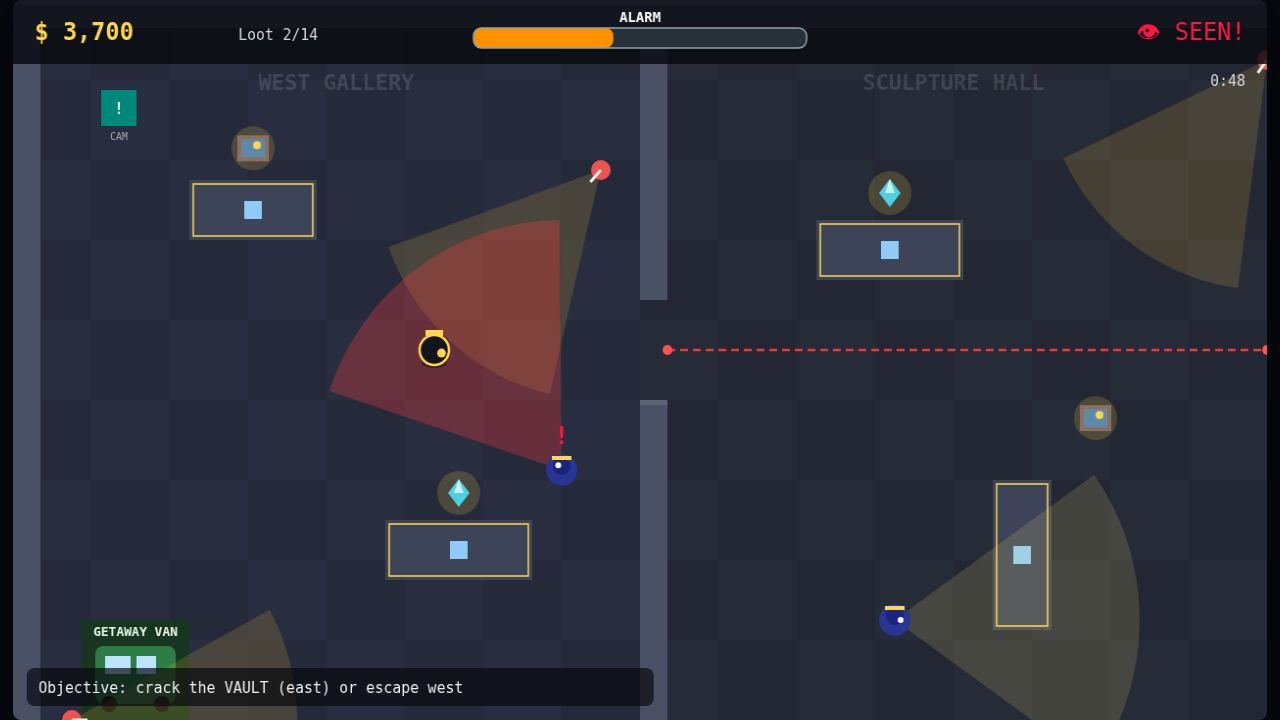
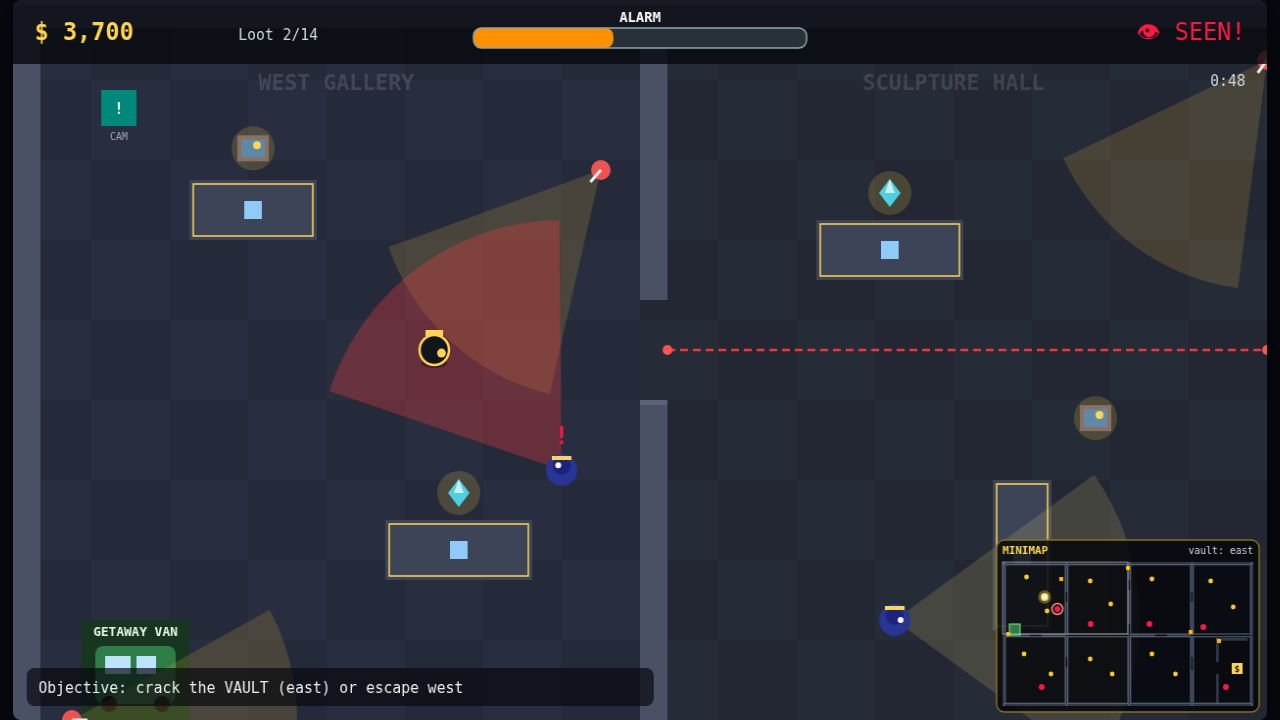
Add live minimap HUD; retake screenshots

Changed region(s): [[0.75, 0.7333, 1.0, 1.0]]

diff --git a/game/src/main.js b/game/src/main.js
@@ -1,5 +1,5 @@
 // Night Vault - main game logic: stealth, vision cones, alarm, vault crack, escape.
-import { buildLevel, ROOM_LABELS } from "./level.js";
+import { buildLevel, ROOM_LABELS, ROOM_RECTS, WORLD } from "./level.js";
 import { Sfx } from "./audio.js";
 const cv=document.getElementById("game"), ctx=cv.getContext("2d");
 const VW=1280, VH=720;
@@ -213,6 +213,56 @@ function drawWorld(){
 }
 function roundRect(x,y,w,h,r){ ctx.beginPath(); ctx.roundRect(x,y,w,h,r); }
 function prompt(t){ ctx.fillStyle="rgba(0,0,0,0.75)"; const w=ctx.measureText(t).width+36; roundRect(VW/2-260,VH-118,520,44,10); ctx.fill(); ctx.fillStyle="#ffd54f"; ctx.font="bold 19px monospace"; ctx.textAlign="center"; ctx.fillText(t,VW/2,VH-89); }
+// ---------- minimap (live HUD overview of the whole museum) ----------
+// Rendered in screen space in the bottom-right corner at a fixed scale:
+// room outlines, un-looted loot (gold), guards (red), the vault, the getaway
+// van, and the thief (bright pulsing dot). Reads only live game state, so it
+// updates every frame and also shows in the deterministic ?shot= scenes.
+const MM_W=256, MM_H=144, MM_SCALE=MM_W/WORLD.w; // 2560x1440 -> 256x144
+function drawMinimap(){
+ const mx=VW-MM_W-14, my=VH-MM_H-14;
+ const px=x=>mx+x*MM_SCALE, py=y=>my+y*MM_SCALE;
+ // panel backing + border (gold while the vault is still shut, green once cracked)
+ ctx.fillStyle="rgba(5,7,12,0.86)"; roundRect(mx-6,my-22,MM_W+12,MM_H+28,8); ctx.fill();
+ ctx.strokeStyle=L.vault.cracked?"#2e7d46":"#8a6d1f"; ctx.lineWidth=1.5; roundRect(mx-6,my-22,MM_W+12,MM_H+28,8); ctx.stroke();
+ ctx.fillStyle="#ffd54f"; ctx.font="bold 11px monospace"; ctx.textAlign="left";
+ ctx.fillText("MINIMAP",mx,my-8);
+ ctx.fillStyle="#cfd8dc"; ctx.font="10px monospace"; ctx.textAlign="right";
+ ctx.fillText(L.vault.cracked?"VAULT OPEN":"vault: east",mx+MM_W,my-8);
+ // room outlines
+ ctx.strokeStyle="rgba(160,180,210,0.55)"; ctx.lineWidth=1;
+ for(const r of ROOM_RECTS) ctx.strokeRect(px(r.x),py(r.y),r.w*MM_SCALE,r.h*MM_SCALE);
+ // solid walls as faint blocks so corridors/door gaps read at a glance
+ ctx.fillStyle="rgba(120,135,165,0.35)";
+ for(const w of L.walls){ if(w.case) continue; ctx.fillRect(px(w.x),py(w.y),Math.max(1,w.w*MM_SCALE),Math.max(1,w.h*MM_SCALE)); }
+ // getaway van / exit (green block + label)
+ const ex=L.exit; ctx.fillStyle="#2e7d46"; ctx.fillRect(px(ex.x),py(ex.y),ex.w*MM_SCALE,ex.h*MM_SCALE);
+ ctx.strokeStyle="#7ee787"; ctx.lineWidth=1; ctx.strokeRect(px(ex.x),py(ex.y),ex.w*MM_SCALE,ex.h*MM_SCALE);
+ // vault (gold square with a dark $ once cracked it flashes green/gold)
+ const v=L.vault, blink=L.vault.cracked&&(Math.floor(elapsed*2)%2===0);
+ ctx.fillStyle=blink?"#7ee787":"#ffd54f"; ctx.fillRect(px(v.x),py(v.y),v.w*MM_SCALE,v.h*MM_SCALE);
+ ctx.fillStyle="#11151c"; ctx.font="bold 9px monospace"; ctx.textAlign="center";
+ ctx.fillText("$",px(v.x+v.w/2),py(v.y+v.h/2)+3);
+ // un-looted loot (gold dots; taken loot disappears)
+ ctx.fillStyle="#ffca28";
+ for(const it of L.loot){ if(it.taken) continue; ctx.beginPath(); ctx.arc(px(it.x),py(it.y),2.4,0,7); ctx.fill(); }
+ // guards (red dots, brighter ring while that guard can see the thief)
+ for(const g of guards){ const seen=seenByGuard(g)>0;
+  ctx.fillStyle="#ff1744"; ctx.beginPath(); ctx.arc(px(g.x),py(g.y),3,0,7); ctx.fill();
+  if(seen){ ctx.strokeStyle="#ff8a80"; ctx.lineWidth=1.5; ctx.beginPath(); ctx.arc(px(g.x),py(g.y),5.5,0,7); ctx.stroke(); } }
+ // cameras (small amber squares, grey while disabled from a panel)
+ const camActive=elapsed>=camOffUntil;
+ ctx.fillStyle=camActive?"#ffb300":"#616161";
+ for(const c of cams) ctx.fillRect(px(c.x)-2,py(c.y)-2,4,4);
+ // thief: bright white/gold pulsing dot on top of everything else
+ const pulse=2.6+Math.sin(elapsed*5)*0.7;
+ ctx.fillStyle="rgba(255,213,79,0.35)"; ctx.beginPath(); ctx.arc(px(player.x),py(player.y),pulse+3.4,0,7); ctx.fill();
+ ctx.fillStyle="#ffffff"; ctx.beginPath(); ctx.arc(px(player.x),py(player.y),pulse,0,7); ctx.fill();
+ ctx.strokeStyle="#ffd54f"; ctx.lineWidth=1.5; ctx.beginPath(); ctx.arc(px(player.x),py(player.y),pulse,0,7); ctx.stroke();
+ // camera viewport rectangle so the player can place the main view
+ const c=cam(); ctx.strokeStyle="rgba(255,255,255,0.4)"; ctx.lineWidth=1;
+ ctx.strokeRect(px(c.x),py(c.y),VW*MM_SCALE,VH*MM_SCALE);
+}
 function drawHUD(){
  // top bar
  ctx.fillStyle="rgba(8,10,16,0.82)"; ctx.fillRect(0,0,VW,64);
@@ -234,6 +284,7 @@ function drawHUD(){
  ctx.fillText(obj,26,VH-27);
  if(elapsed<camOffUntil){ ctx.fillStyle="#80cbc4"; ctx.fillText("Cameras OFF "+Math.ceil(camOffUntil-elapsed)+"s",1000,VH-27); }
  if(msgT>0){ ctx.fillStyle="rgba(0,0,0,0.78)"; roundRect(VW/2-330,76,660,42,10); ctx.fill(); ctx.fillStyle="#ffd54f"; ctx.font="bold 18px monospace"; ctx.textAlign="center"; ctx.fillText(msg,VW/2,103); }
+ drawMinimap();
  if(paused) overlay("PAUSED","Press P or click to resume");
 }
 function fmtTime(s){ const m=Math.floor(s/60), ss=Math.floor(s%60); return m+":"+String(ss).padStart(2,"0"); }

diff --git a/game/index.html b/game/index.html
@@ -14,6 +14,6 @@
 </style></head><body>
 <header><h1>NIGHT VAULT</h1><p>A top-down stealth heist - steal the museum, crack the vault, vanish.</p></header>
 <canvas id="game" width="1280" height="720"></canvas>
-<footer>Move <kbd>W A S D</kbd>/<kbd>Arrows</kbd> &middot; Sneak <kbd>Shift</kbd> &middot; Interact / crack vault <kbd>E</kbd> (hold) &middot; Pause <kbd>P</kbd>/<kbd>Esc</kbd> &middot; Start <kbd>Enter</kbd>. Avoid vision cones and lasers, use panels to disable security, loot everything, escape to the van. Tip: append <kbd>?seed=3</kbd> for a different night.</footer>
+<footer>Move <kbd>W A S D</kbd>/<kbd>Arrows</kbd> &middot; Sneak <kbd>Shift</kbd> &middot; Interact / crack vault <kbd>E</kbd> (hold) &middot; Pause <kbd>P</kbd>/<kbd>Esc</kbd> &middot; Start <kbd>Enter</kbd>. Avoid vision cones and lasers, use panels to disable security, loot everything, escape to the van. The live minimap in the corner tracks you, the guards, remaining loot, the vault and the van. Tip: append <kbd>?seed=3</kbd> for a different night.</footer>
 <script type="module" src="./src/main.js"></script>
 </body></html>

diff --git a/game/src/level.js b/game/src/level.js
@@ -65,6 +65,15 @@ export function buildLevel(seed){
   vault:{x:2340,y:1010,w:110,h:110,cracked:false,progress:0},
   exit:{x:70,y:620,w:110,h:110}, start:{x:120,y:665}};
 }
+// World geometry for the HUD minimap: overall size + room rectangles
+// (x/y/w/h in world coordinates, matching the divider layout in buildLevel).
+export const WORLD={w:2560,h:1440};
+export const ROOM_RECTS=[
+ {x:28,y:28,w:612,h:692},{x:28,y:748,w:612,h:664},
+ {x:668,y:28,w:612,h:692},{x:668,y:748,w:612,h:664},
+ {x:1308,y:28,w:612,h:692},{x:1308,y:748,w:612,h:664},
+ {x:1948,y:28,w:584,h:692},{x:1948,y:748,w:584,h:664},
+];
 export const ROOM_LABELS=[
  {x:330,y:90,t:"WEST GALLERY"},{x:960,y:90,t:"SCULPTURE HALL"},{x:1600,y:90,t:"EAST GALLERY"},
  {x:330,y:780,t:"ARCHIVE WING"},{x:960,y:780,t:"COIN ROOM"},{x:1600,y:780,t:"JEWEL VAULT HALL"},
